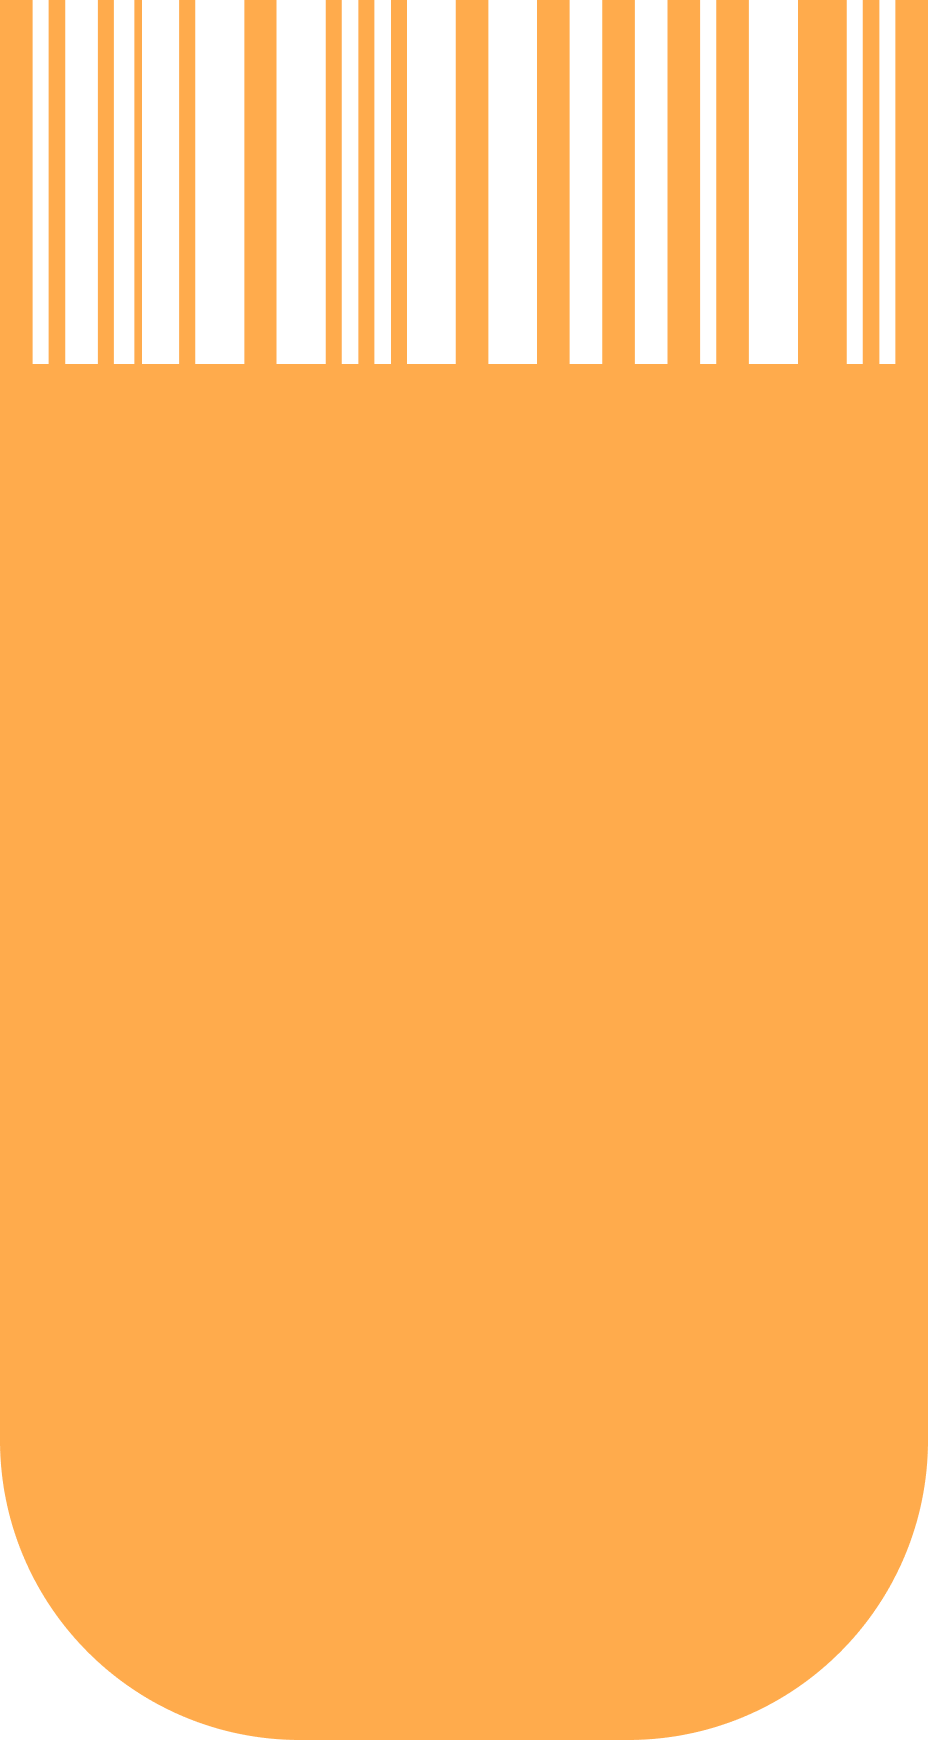
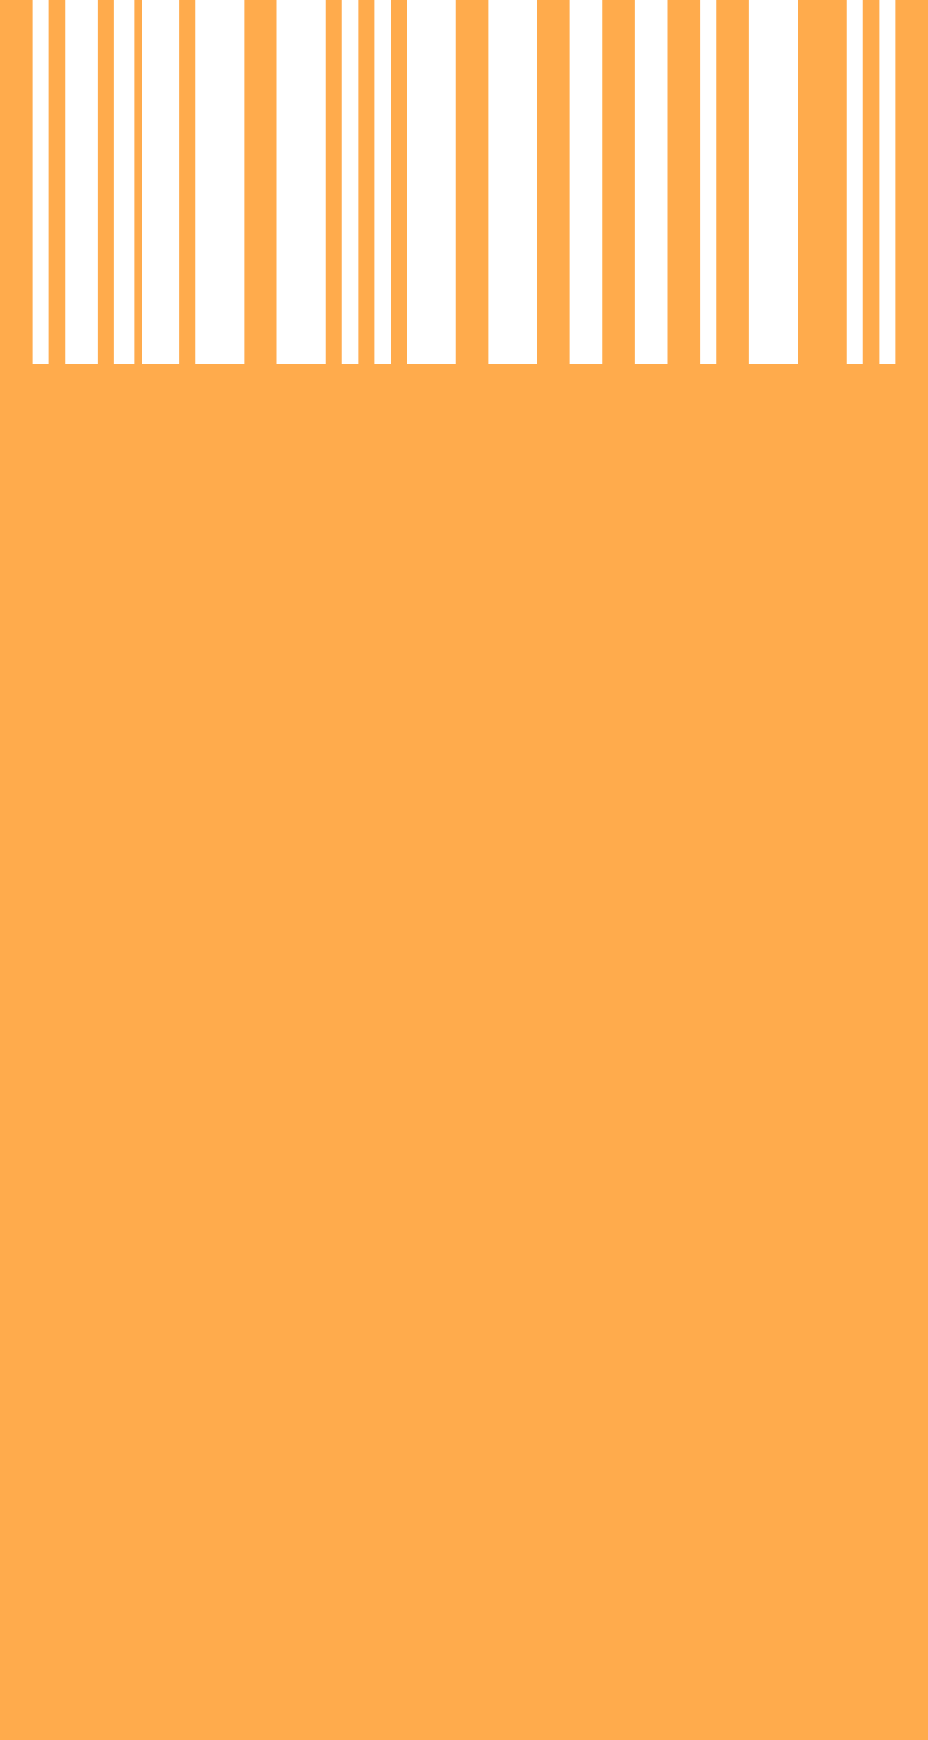
fixed photo position

Changed region(s): [[0.6875, 0.8379, 1.0, 1.0], [0.0, 0.8379, 0.3125, 1.0]]

diff --git a/src/components/About.jsx b/src/components/About.jsx
@@ -21,7 +21,7 @@ const About = forwardRef((props, ref) => {
               <img
                 src={require("../files/resources/about_barcode.png")}
                 alt="barcode"
-                className="h-[50%] w-fit"
+                className="w-fit"
               />
               <img
                 src={require("../files/resources/myphoto.png")}
